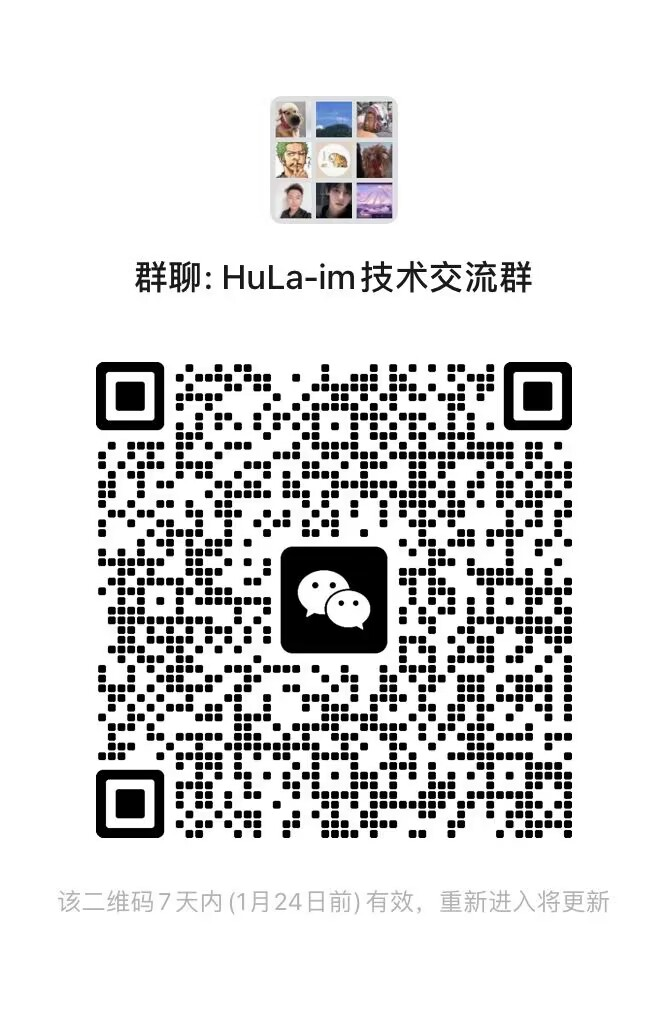
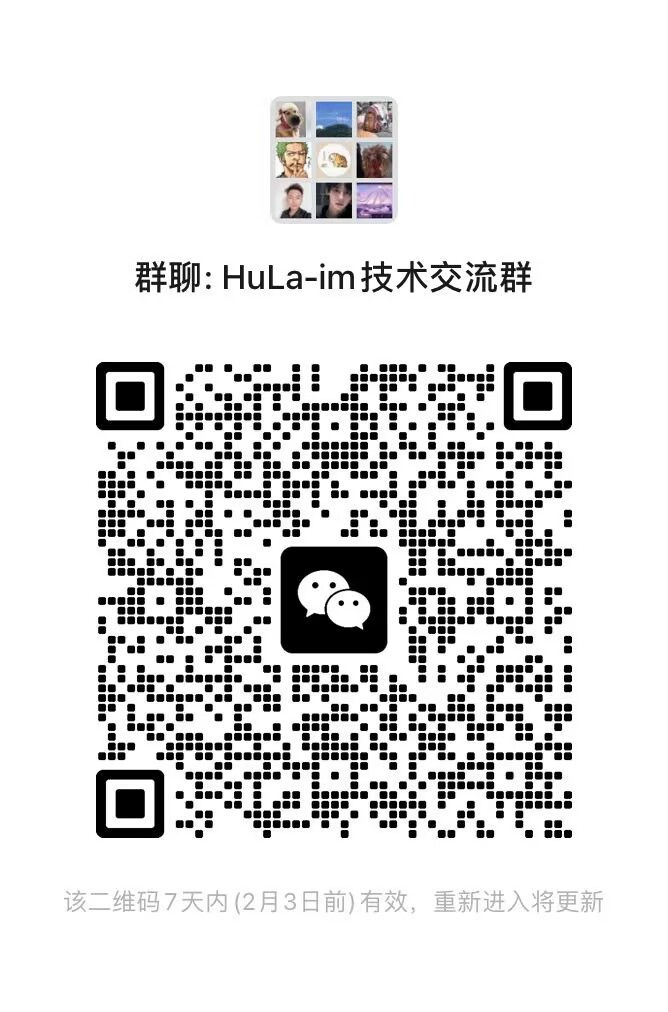
feat(preview): :sparkles: 增加本地开发配置以及赞助渠道

diff --git a/README.en.md b/README.en.md
@@ -130,8 +130,14 @@ use **pnpm run commit** to invoke the _git commit_ interaction and follow the pr
 
 **The final interpretation of this disclaimer belongs to the developer**
 
-## HuLa社区讨论群
-<img src="preview/wx.jpg" width="240" height="280" alt="微信群二维码" style="border-radius: 12px;" />
+## Sponsor HuLa
+If you think HuLa is helpful to you, welcome to sponsor HuLa. Your support is our motivation to keep moving forward.
+
+<img src="preview/zs.jpg" width="260" height="280" alt="赞助码" style="border-radius: 12px;" />
+
+
+## HuLa Community discussion groups
+<img src="preview/wx.jpg" width="260" height="300" alt="微信群二维码" style="border-radius: 12px;" />
 
 ## License
 [![FOSSA Status](https://app.fossa.com/api/projects/git%2Bgithub.com%2FHuLaSpark%2FHuLa.svg?type=large)](https://app.fossa.com/projects/git%2Bgithub.com%2FHuLaSpark%2FHuLa?ref=badge_large)

diff --git a/README.md b/README.md
@@ -130,8 +130,14 @@ sudo xattr -rd com.apple.quarantine 你的安装包路径/HuLa.app
 
 **本免责声明的最终解释权归开发者所有**
 
+## 赞助HuLa
+如果您觉得HuLa对您有帮助，欢迎赞助HuLa，您的支持是我们不断前进的动力
+
+<img src="preview/zs.jpg" width="260" height="280" alt="赞助码" style="border-radius: 12px;" />
+
+
 ## HuLa社区讨论群
-<img src="preview/wx.jpg" width="240" height="280" alt="微信群二维码" style="border-radius: 12px;" />
+<img src="preview/wx.jpg" width="260" height="300" alt="微信群二维码" style="border-radius: 12px;" />
 
 ## 许可证
 [![FOSSA Status](https://app.fossa.com/api/projects/git%2Bgithub.com%2FHuLaSpark%2FHuLa.svg?type=large)](https://app.fossa.com/projects/git%2Bgithub.com%2FHuLaSpark%2FHuLa?ref=badge_large)
